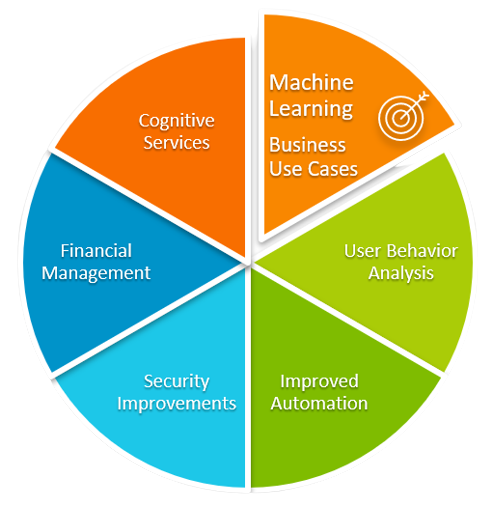
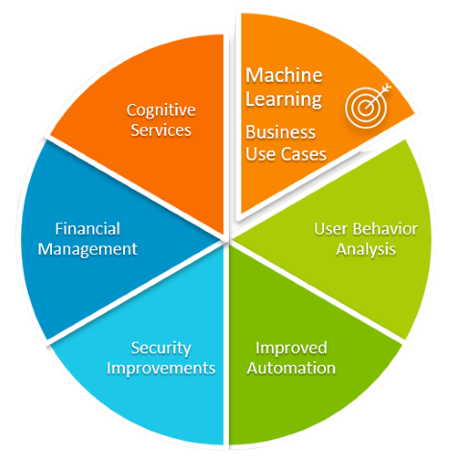
new_font

diff --git a/index.html b/index.html
@@ -101,19 +101,19 @@
     <!-- banner -->
     <section class="banner_main">
       <div id="banner1" class="carousel slide" data-ride="carousel">
-        <ol class="carousel-indicators">
+        <!-- <ol class="carousel-indicators">
           <li data-target="#banner1" data-slide-to="0" class="active"></li>
           <li data-target="#banner1" data-slide-to="1"></li>
           <li data-target="#banner1" data-slide-to="2"></li>
           <li data-target="#banner1" data-slide-to="3"></li>
           <li data-target="#banner1" data-slide-to="4"></li>
           <li data-target="#banner1" data-slide-to="5"></li>
-        </ol>
+        </ol> -->
         <div class="carousel-inner">
           <div class="carousel-item active">
             <div class="container">
-              <div class="carousel-caption">
-                <div class="row d_flex">
+              <div>
+                <div class="row">
                   <div class="col-md-8">
                     <div class="text-bg glass p-3 bg">
                       <h1>Internet of Things</h1>
@@ -142,8 +142,8 @@
           </div>
           <div class="carousel-item">
             <div class="container">
-              <div class="carousel-caption">
-                <div class="row d_flex">
+              <div>
+                <div class="row">
                   <div class="col-md-8">
                     <div class="text-bg glass p-3">
                       <h1>Embedded System</h1>
@@ -173,8 +173,8 @@
           </div>
           <div class="carousel-item">
             <div class="container">
-              <div class="carousel-caption">
-                <div class="row d_flex">
+              <div>
+                <div class="row">
                   <div class="col-md-8">
                     <div class="text-bg glass p-3">
                       <h1>Robotic Process Automation</h1>
@@ -205,8 +205,8 @@
           </div>
           <div class="carousel-item">
             <div class="container">
-              <div class="carousel-caption">
-                <div class="row d_flex">
+              <div>
+                <div class="row">
                   <div class="col-md-8">
                     <div class="text-bg glass p-3">
                       <h1>Machine Learning & Data Analytics</h1>
@@ -234,8 +234,8 @@
           </div>
           <div class="carousel-item">
             <div class="container">
-              <div class="carousel-caption">
-                <div class="row d_flex">
+              <div>
+                <div class="row">
                   <div class="col-md-8">
                     <div class="text-bg glass p-3">
                       <h1>Computer Vision</h1>
@@ -262,8 +262,8 @@
           </div>
           <div class="carousel-item">
             <div class="container">
-              <div class="carousel-caption">
-                <div class="row d_flex">
+              <div>
+                <div class="row">
                   <div class="col-md-8">
                     <div class="text-bg glass p-3">
                       <h1>Web Development</h1>
@@ -312,7 +312,7 @@
         <div class="row">
           <div class="col-md-12">
             <div class="titlepage glass-con p-1">
-              <h2>About Us</h2>
+              <h2>ABOUT US</h2>
               <p>
                 Paving the path way for never heard any organization focussing
                 on intellectual and underneath property of human existence.
@@ -331,7 +331,7 @@
                   <h2>Mission</h2>
                   <p>
                     Offering digitised solutions to enterprises such as
-                    automation focussed on software-as-a-service (SaaS) company.
+                    automation focussed on Software-as-a-Service (SaaS) company.
                   </p>
                 </div>
               </div>
@@ -357,8 +357,7 @@
         <div class="row">
           <div class="col-md-12">
             <div class="titlepage glass-con ser">
-              <h2>Our Services</h2>
-              <p>These are the services you can expect from Smriti Tech</p>
+              <h2>OUR SERVICES</h2>
             </div>
           </div>
         </div>
@@ -490,7 +489,7 @@
         <div class="row">
           <div class="col-md-12">
             <div class="titlepage glass-con">
-              <h2 class="text-center p-2">Contact Us</h2>
+              <h2 class="text-center p-2">CONTACT US</h2>
             </div>
           </div>
         </div>

diff --git a/css/style.css b/css/style.css
@@ -96,16 +96,17 @@ h6 {
 
 h1 {
   font-size: 24px;
-  font-family: "Baloo Chettan", cursive;
+  font-family: "Cinzel Decorative", cursive;
 }
 
 h2 {
   font-size: 22px;
-  font-family: "Baloo Chettan", cursive;
+  font-family: "Cinzel Decorative", cursive;
 }
 
 h3 {
   font-size: 18px;
+  font-family: "Cinzel Decorative", cursive;
 }
 
 h4 {
@@ -333,9 +334,8 @@ button {
 }
 
 .text-bg {
-  margin-top: 20%;
   width: 100%;
-  height: 250%;
+  height: 100%;
   text-align: left;
   position: relative;
 }
@@ -344,13 +344,11 @@ button {
   color: #fff;
   font-size: 63px;
   line-height: 73px;
-  padding-bottom: 30px;
 }
 
 .text-bg p {
   line-height: 28px;
   font-weight: 500;
-  padding-bottom: 70px;
   display: block;
 }
 
@@ -384,11 +382,11 @@ button {
 }
 
 .text_img figure img {
-  width: fit-content;
+  width: 100%;
 }
 
 .carousel-caption {
-  position: inherit;
+  /* position: inherit; */
 }
 
 .carousel-inner {

diff --git a/css/responsive.css b/css/responsive.css
@@ -65,7 +65,6 @@
   .text-bg h1 {
     font-size: 43px;
     line-height: 53px;
-    padding-bottom: 10px;
   }
   .text_img {
     margin-right: 0px;
@@ -147,10 +146,6 @@
   }
   .text-bg h1 {
     font-size: 47px;
-  }
-
-  .text-bg p {
-    padding-bottom: 30px;
   }
   .ideas_box p {
     margin-bottom: 30px;
@@ -257,16 +252,12 @@
     top: 19px;
     left: 5px;
   }
-  .text-bg p {
-    padding-bottom: 30px;
-  }
   .ideas_box p {
     margin-bottom: 30px;
   }
   .text-bg h1 {
     font-size: 47px;
     line-height: 60px;
-    padding-bottom: 10px;
   }
   .carousel-inner {
     margin-right: 0;
